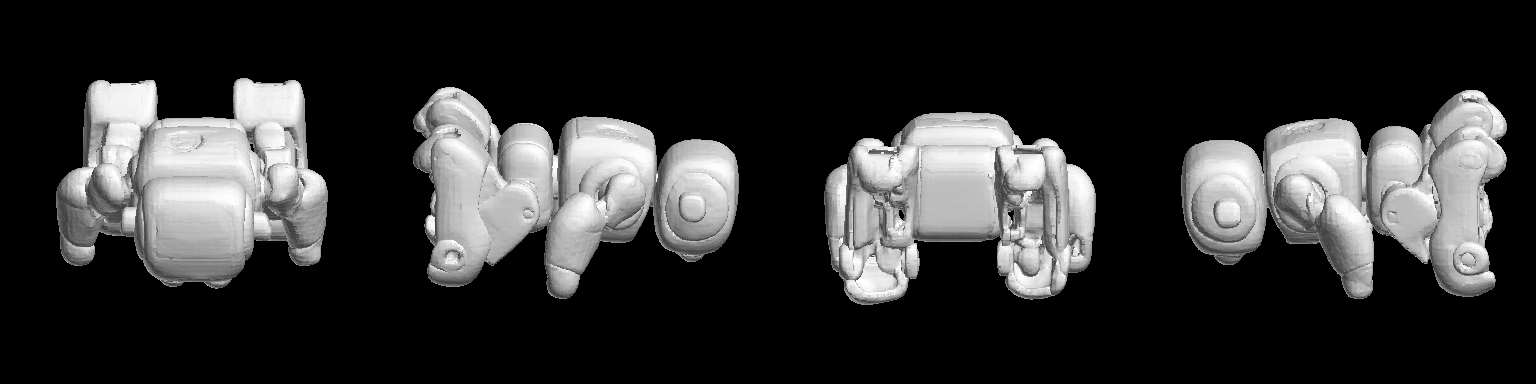
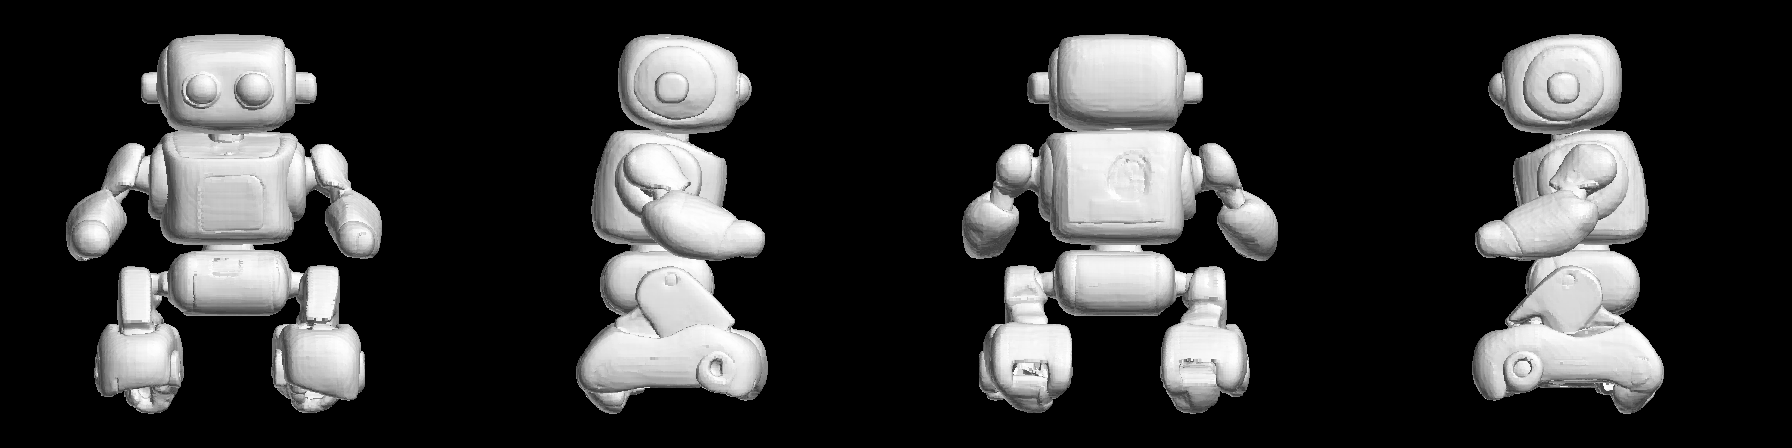
docs: the four views stand the model up, facing front, right, back and left (#26)
The strips were drawn with the mesh lying on its side, because the runner
leaves it Z-up and the renderer takes Y for up, and the four yaws started
wherever yaw zero happened to be. They now show the model the way the input
image does: feet down, then front, right, back and left.

`render_mesh.py` gains `--yaw` and `--pitch` for it. Which way a mesh faces
is not knowable from the mesh - the runner reports `forward_axis: null` for
that reason - so the front is chosen by eye and named on the command line;
`--pitch 0` gives the elevations an orthographic drawing would have.

diff --git a/tools/render_mesh.py b/tools/render_mesh.py
@@ -238,6 +238,8 @@ def render(
     two_sided: bool = False,
     color: bool = False,
     texture: bool = False,
+    yaw: float = 0.0,
+    pitch: float = 15.0,
 ) -> None:
     """Draw the mesh from several viewpoints into a single PNG strip.
 
@@ -254,6 +256,12 @@ def render(
             map at every pixel. **This is the only way to judge an atlas**: the
             splatted views draw one atlas sample per vertex, which cannot show
             a seam. It raises when the mesh carries no texture.
+        yaw: Degrees to turn the model about the vertical axis before the first
+            view. **Which way a mesh faces is not knowable from the mesh** -
+            this runner reports `forward_axis: null` for that reason - so the
+            front is chosen by eye and named here.
+        pitch: Degrees to look down from. 0 gives the elevations an orthographic
+            drawing would have; the default 15 shows a little of the top.
     """
     # `force="mesh"` because a GLB arrives as a scene, and its one mesh is what
     # is being looked at.
@@ -279,7 +287,7 @@ def render(
             raise ValueError(f"{mesh_path} carries no vertex colours")
         colors = np.asarray(raw, dtype=np.float64)[:, :3] / 255.0
 
-    angles = [(i * 2.0 * np.pi / views, np.deg2rad(15.0)) for i in range(views)]
+    angles = [(np.deg2rad(yaw) + i * 2.0 * np.pi / views, np.deg2rad(pitch)) for i in range(views)]
     if texture:
         visual = getattr(mesh, "visual", None)
         uvs = getattr(visual, "uv", None)
@@ -336,6 +344,12 @@ def main() -> int:
         action="store_true",
         help="rasterize and sample the mesh's texture map per pixel (fails if it has none)",
     )
+    parser.add_argument(
+        "--yaw", type=float, default=0.0, help="degrees about the vertical axis before view one"
+    )
+    parser.add_argument(
+        "--pitch", type=float, default=15.0, help="degrees to look down from (0 for elevations)"
+    )
     args = parser.parse_args()
     render(
         Path(args.mesh),
@@ -348,6 +362,8 @@ def main() -> int:
         args.two_sided,
         args.color,
         args.texture,
+        args.yaw,
+        args.pitch,
     )
     print(f"wrote {args.out}")
     return 0

diff --git a/README.md b/README.md
@@ -30,8 +30,11 @@ do, and the traps it took to get there are in
 
 *The bundled [`assets/sample.png`](assets/sample.png) (an SDXL-generated robot)
 is the reference specimen for everything below. These are what the two runners
-made of it, four views each, drawn by
-[`tools/render_mesh.py`](tools/render_mesh.py) with no external renderer.*
+made of it - front, right, back and left, standing as the image does - drawn by
+[`tools/render_mesh.py`](tools/render_mesh.py) with no external renderer.
+**Which way a mesh faces is not knowable from the mesh**, which is why the
+runner reports `forward_axis: null` and why these were turned by hand
+(`--rotx -90 --yaw 0 --pitch 0`).*
 
 | Input |
 |---|
